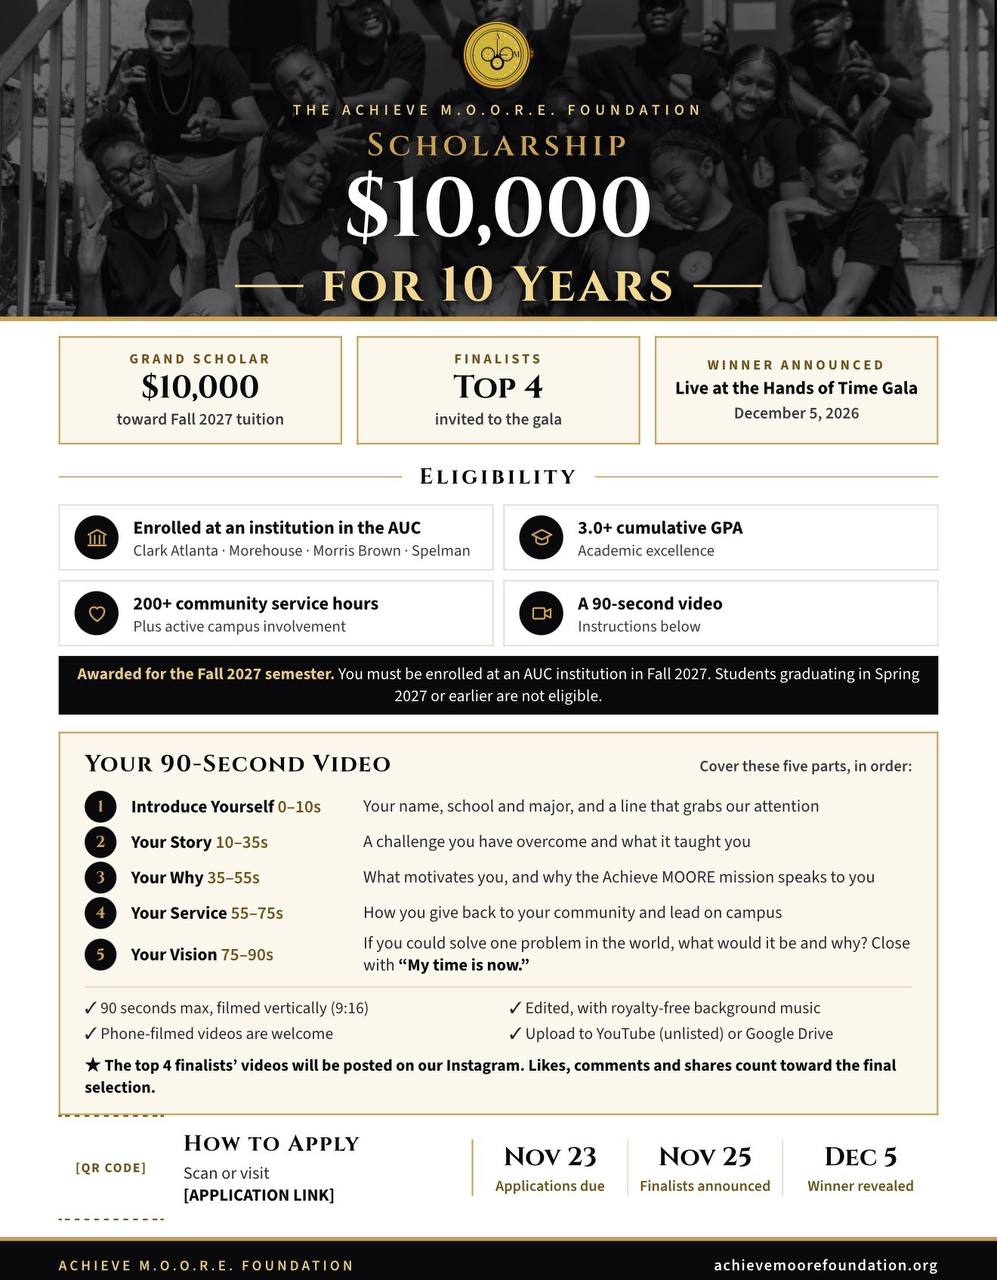
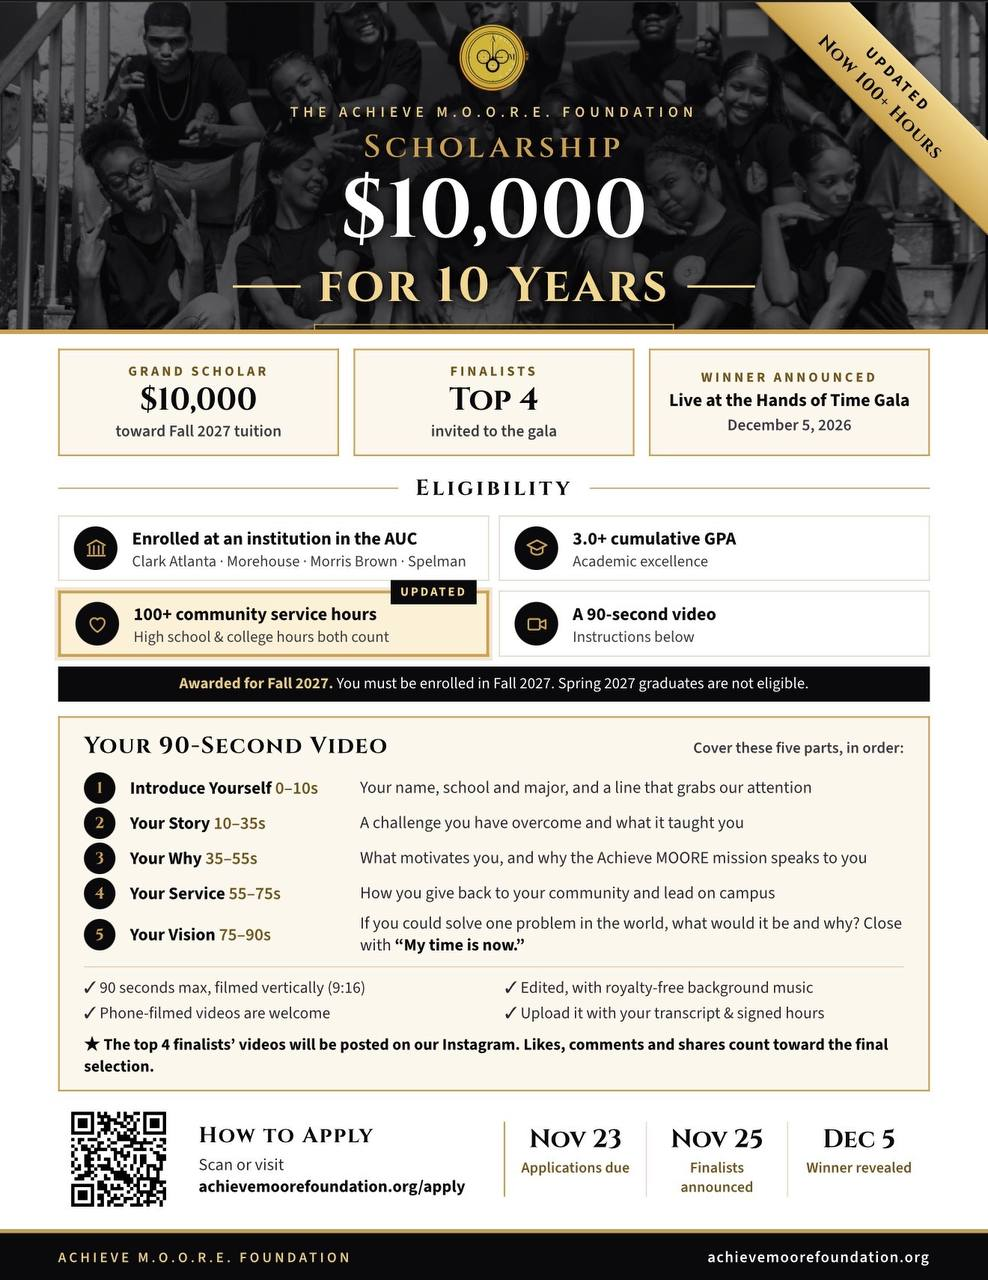
Update scholarship dates and publish partner and newsletters

diff --git a/newsletter.html b/newsletter.html
@@ -468,8 +468,100 @@
     <div class="gold-divider" style="margin-bottom: 18px;"></div>
     <h2>M.O.O.R.E. Updates</h2>
     <p>Flip through the latest edition below like a booklet. Underlined links in the newsletter are clickable &mdash; tap them to visit the website, purchase gala tickets, donate, and more.</p>
-    <span class="issue-badge">Issue #6 &bull; September 2026</span>
+    <span class="issue-badge">Issue #8 &bull; November 2026</span>
   </div>
+
+  <!-- ISSUE #8 BOOKLET -->
+  <div class="booklet" data-booklet aria-label="A.M News Issue 8 booklet">
+    <div class="booklet-stage" tabindex="0">
+      <div class="news-page active">
+        <img src="assets/am-november-1.jpg" alt="A.M News Issue 8, page 1 — F(A.M.)ILY updates from Kareem Moore">
+      </div>
+      <div class="news-page">
+        <img src="assets/am-november-2.jpg" alt="A.M News Issue 8, page 2 — Gala keynote speaker Robert Dawson" loading="lazy">
+      </div>
+      <div class="news-page">
+        <img src="assets/am-november-3.jpg" alt="A.M News Issue 8, page 3 — Adreina Rainey Humanitarian Award" loading="lazy">
+      </div>
+      <div class="news-page">
+        <img src="assets/am-november-4.jpg" alt="A.M News Issue 8, page 4 — Leadership and Excellence Award" loading="lazy">
+      </div>
+      <div class="news-page">
+        <img src="assets/am-november-5.jpg" alt="A.M News Issue 8, page 5 — The Rising Hour Award" loading="lazy">
+      </div>
+      <div class="news-page">
+        <img src="assets/am-november-6.jpg" alt="A.M News Issue 8, page 6 — Reserve your gala seat and donate" loading="lazy">
+        <a class="news-link" href="/gala" aria-label="Visit the Hands of Time Gala page" title="Visit the Hands of Time Gala page" style="left: 12%; top: 54.5%; width: 24%; height: 2%;"></a>
+        <a class="news-link" href="https://www.paypal.com/ncp/payment/9DM9LFFLN476S" target="_blank" rel="noopener" aria-label="Donate to the foundation" title="Donate to the foundation" style="left: 15%; top: 74%; width: 23%; height: 2.5%;"></a>
+        <a class="news-link" href="mailto:achievemoorefoundation@gmail.com" aria-label="Email the foundation" title="Email the foundation" style="left: 14.5%; top: 87%; width: 28%; height: 2.5%;"></a>
+      </div>
+      <div class="news-page">
+        <img src="assets/am-november-7.jpg" alt="A.M News Issue 8, page 7 — In Case You Missed It, links to events and pages" loading="lazy">
+        <a class="news-link" href="https://docs.google.com/forms/d/e/1FAIpQLSf6DUo-dIDM3EpcW2LyW-TEszDbcYLiQFBkntuP0aQCl1yglQ/viewform" target="_blank" rel="noopener" aria-label="Alumni Spotlight Survey" title="Alumni Spotlight Survey" style="left: 34%; top: 17.7%; width: 17%; height: 2%;"></a>
+        <a class="news-link" href="/home" aria-label="Visit Our New Website" title="Visit Our New Website" style="left: 16%; top: 20.2%; width: 18%; height: 2%;"></a>
+        <a class="news-link" href="/gala#sponsorship" aria-label="Become a Sponsor at the Gala" title="Become a Sponsor at the Gala" style="left: 16%; top: 23.2%; width: 23%; height: 2%;"></a>
+        <a class="news-link" href="https://www.paypal.com/ncp/payment/9DM9LFFLN476S" target="_blank" rel="noopener" aria-label="Donate Today" title="Donate Today" style="left: 16%; top: 26.3%; width: 12%; height: 2%;"></a>
+        <a class="news-link" href="https://www.linkedin.com/company/achieve-moore-foundation-inc" target="_blank" rel="noopener" aria-label="Follow Us On LinkedIn" title="Follow Us On LinkedIn" style="left: 16%; top: 29.3%; width: 18%; height: 2%;"></a>
+        <a class="news-link" href="https://docs.google.com/forms/d/e/1FAIpQLSf6DUo-dIDM3EpcW2LyW-TEszDbcYLiQFBkntuP0aQCl1yglQ/viewform" target="_blank" rel="noopener" aria-label="Complete the Global Network Survey" title="Complete the Global Network Survey" style="left: 16%; top: 33.8%; width: 50%; height: 2%;"></a>
+      </div>
+    </div>
+    <div class="booklet-controls">
+      <button class="booklet-btn booklet-prev" aria-label="Previous page">&#8592;</button>
+      <span class="booklet-count">Page 1 of 7</span>
+      <button class="booklet-btn booklet-next" aria-label="Next page">&#8594;</button>
+    </div>
+    <div class="booklet-dots" aria-label="Go to page"></div>
+  </div>
+
+  <!-- PAST EDITIONS -->
+  <div class="past-editions">
+    <div class="news-intro">
+      <p class="section-label">Past Editions</p>
+      <div class="gold-divider" style="margin-bottom: 18px;"></div>
+      <h2>The Archive</h2>
+      <span class="issue-badge">Issue #7 &bull; October 2026</span>
+    </div>
+
+    <!-- ISSUE #7 BOOKLET -->
+    <div class="booklet" data-booklet aria-label="A.M News Issue 7 booklet">
+      <div class="booklet-stage" tabindex="0">
+        <div class="news-page active">
+          <img src="assets/am-october-1.jpg" alt="A.M News Issue 7, page 1 — F(A.M.)ILY updates from Kareem Moore" loading="lazy">
+        </div>
+        <div class="news-page">
+          <img src="assets/am-october-2.jpg" alt="A.M News Issue 7, page 2 — Bring Others With You Legacy Award" loading="lazy">
+        </div>
+        <div class="news-page">
+          <img src="assets/am-october-3.jpg" alt="A.M News Issue 7, page 3 — EY Parker Foundation sponsor highlight" loading="lazy">
+          <a class="news-link" href="https://eyparker.org/" target="_blank" rel="noopener" aria-label="Learn more about EY Parker Foundation" title="Learn more about EY Parker Foundation" style="left: 41%; top: 84.5%; width: 13%; height: 2%;"></a>
+        </div>
+        <div class="news-page">
+          <img src="assets/am-october-4.jpg" alt="A.M News Issue 7, page 4 — Reserve your gala seat and donate" loading="lazy">
+          <a class="news-link" href="/gala" aria-label="Visit the Hands of Time Gala page" title="Visit the Hands of Time Gala page" style="left: 12%; top: 54.5%; width: 24%; height: 2%;"></a>
+          <a class="news-link" href="https://www.paypal.com/ncp/payment/9DM9LFFLN476S" target="_blank" rel="noopener" aria-label="Donate to the foundation" title="Donate to the foundation" style="left: 15%; top: 74%; width: 23%; height: 2.5%;"></a>
+          <a class="news-link" href="mailto:achievemoorefoundation@gmail.com" aria-label="Email the foundation" title="Email the foundation" style="left: 14.5%; top: 87%; width: 28%; height: 2.5%;"></a>
+        </div>
+        <div class="news-page">
+          <img src="assets/am-october-5.jpg" alt="A.M News Issue 7, page 5 — In Case You Missed It, links to events and pages" loading="lazy">
+          <a class="news-link" href="https://docs.google.com/forms/d/e/1FAIpQLSf6DUo-dIDM3EpcW2LyW-TEszDbcYLiQFBkntuP0aQCl1yglQ/viewform" target="_blank" rel="noopener" aria-label="Alumni Spotlight Survey" title="Alumni Spotlight Survey" style="left: 34%; top: 17.7%; width: 17%; height: 2%;"></a>
+          <a class="news-link" href="/home" aria-label="Visit Our New Website" title="Visit Our New Website" style="left: 16%; top: 20.2%; width: 18%; height: 2%;"></a>
+          <a class="news-link" href="/gala#sponsorship" aria-label="Become a Sponsor at the Gala" title="Become a Sponsor at the Gala" style="left: 16%; top: 23.2%; width: 23%; height: 2%;"></a>
+          <a class="news-link" href="https://www.paypal.com/ncp/payment/9DM9LFFLN476S" target="_blank" rel="noopener" aria-label="Donate Today" title="Donate Today" style="left: 16%; top: 26.3%; width: 12%; height: 2%;"></a>
+          <a class="news-link" href="https://www.linkedin.com/company/achieve-moore-foundation-inc" target="_blank" rel="noopener" aria-label="Follow Us On LinkedIn" title="Follow Us On LinkedIn" style="left: 16%; top: 29.3%; width: 18%; height: 2%;"></a>
+          <a class="news-link" href="https://docs.google.com/forms/d/e/1FAIpQLSf6DUo-dIDM3EpcW2LyW-TEszDbcYLiQFBkntuP0aQCl1yglQ/viewform" target="_blank" rel="noopener" aria-label="Complete the Global Network Survey" title="Complete the Global Network Survey" style="left: 16%; top: 33.8%; width: 50%; height: 2%;"></a>
+        </div>
+      </div>
+      <div class="booklet-controls">
+        <button class="booklet-btn booklet-prev" aria-label="Previous page">&#8592;</button>
+        <span class="booklet-count">Page 1 of 5</span>
+        <button class="booklet-btn booklet-next" aria-label="Next page">&#8594;</button>
+      </div>
+      <div class="booklet-dots" aria-label="Go to page"></div>
+    </div>
+
+    <div class="news-intro">
+      <span class="issue-badge">Issue #6 &bull; September 2026</span>
+    </div>
 
   <!-- ISSUE #6 BOOKLET -->
   <div class="booklet" data-booklet aria-label="A.M News Issue 6 booklet">
@@ -535,12 +627,7 @@
     <div class="booklet-dots" aria-label="Go to page"></div>
   </div>
 
-  <!-- PAST EDITIONS -->
-  <div class="past-editions">
     <div class="news-intro">
-      <p class="section-label">Past Editions</p>
-      <div class="gold-divider" style="margin-bottom: 18px;"></div>
-      <h2>The Archive</h2>
       <span class="issue-badge">Issue #5 &bull; August 2026</span>
     </div>
 

diff --git a/apply.html b/apply.html
@@ -4,9 +4,9 @@
 <meta charset="UTF-8">
 <meta name="viewport" content="width=device-width, initial-scale=1.0">
 <title>$10,000 Scholarship Application — Achieve M.O.O.R.E Foundation</title>
-<meta name="description" content="Apply for the Achieve M.O.O.R.E Foundation $10,000 for 10 Years Scholarship. Open to AUC students at Clark Atlanta, Morehouse, Morris Brown and Spelman. Applications due November 23.">
+<meta name="description" content="Apply for the Achieve M.O.O.R.E Foundation $10,000 for 10 Years Scholarship. Open to AUC students at Clark Atlanta, Morehouse, Morris Brown and Spelman. Applications due November 27.">
 <meta property="og:title" content="$10,000 for 10 Years — Scholarship Application">
-<meta property="og:description" content="A $10,000 scholarship for AUC students. 3.0+ GPA, 100+ service hours, and a 90-second video. Applications due November 23.">
+<meta property="og:description" content="A $10,000 scholarship for AUC students. 3.0+ GPA, 100+ service hours, and a 90-second video. Applications due November 27.">
 <meta property="og:image" content="https://achievemoorefoundation.org/assets/og-logo.png">
 <link href="https://fonts.googleapis.com/css2?family=Cormorant+Garamond:wght@300;400;600;700&family=Montserrat:wght@300;400;600;700;900&display=swap" rel="stylesheet">
 <style>
@@ -472,7 +472,7 @@
   <div class="gold-divider"></div>
 </section>
 
-<div class="deadline-strip">Applications close <strong>Sunday, November 23</strong> at 11:59 PM ET &mdash; finalists announced November 25 &mdash; winner revealed live at the gala December 5.</div>
+<div class="deadline-strip">Applications close <strong>Friday, November 27</strong> at 11:59 PM ET &mdash; finalists announced November 30 &mdash; winner revealed live at the gala December 5.</div>
 
 <!-- PRIZES -->
 <section class="section">
@@ -571,8 +571,8 @@
 <!-- KEY DATES -->
 <section class="section" style="padding-top:10px;">
   <div class="dates-row">
-    <div class="date-card"><div class="dc-date">Nov 23</div><div class="dc-what">Applications Due</div></div>
-    <div class="date-card"><div class="dc-date">Nov 25</div><div class="dc-what">Finalists Announced</div></div>
+    <div class="date-card"><div class="dc-date">Nov 27</div><div class="dc-what">Applications Due</div></div>
+    <div class="date-card"><div class="dc-date">Nov 30</div><div class="dc-what">Finalists Announced</div></div>
     <div class="date-card"><div class="dc-date">Dec 5</div><div class="dc-what">Winner Revealed</div></div>
   </div>
 </section>
@@ -726,7 +726,7 @@
       <div class="big-check">&#10003;</div>
       <h3>Application Received</h3>
       <p>Thank you for sharing your story with us. A confirmation is on its way to your email.</p>
-      <p><strong>Top 4 finalists</strong> will be announced on <strong>November 25</strong>, and the Grand Scholar is revealed live at the Hands of Time Gala on <strong>December 5, 2026</strong>.</p>
+      <p><strong>Top 4 finalists</strong> will be announced on <strong>November 30</strong>, and the Grand Scholar is revealed live at the Hands of Time Gala on <strong>December 5, 2026</strong>.</p>
       <p style="margin-top:18px; font-family:'Cormorant Garamond',serif; font-size:21px; color:var(--gold);">Your time is now.</p>
     </div>
   </div>

diff --git a/worker/src/index.js b/worker/src/index.js
@@ -503,7 +503,7 @@ const FILE_KEY_RE = /^(videos|proofs|transcripts)\/[\w.-]{8,80}$/;
 const DOC_PREFIX = { proof: 'proofs', transcript: 'transcripts' };
 
 function pastDeadline(env) {
-  const deadline = Date.parse(env.SCHOLARSHIP_DEADLINE || '2026-11-24T04:59:59Z');
+  const deadline = Date.parse(env.SCHOLARSHIP_DEADLINE || '2026-11-28T04:59:59.999Z');
   return !Number.isNaN(deadline) && Date.now() > deadline;
 }
 
@@ -699,8 +699,8 @@ async function sendApplicationReceivedEmail(env, email, firstName) {
   <h1 style="color:#c8920a;font-weight:600;font-size:26px;margin:0 0 6px;">$10,000 for 10 Years</h1>
   <p style="font-size:11px;letter-spacing:3px;text-transform:uppercase;color:#999;margin:0 0 24px;">The Achieve M.O.O.R.E Foundation Scholarship</p>
   <p style="font-size:15px;line-height:1.7;">${firstName ? `Dear ${escapeHtml(firstName)},` : 'Hello,'}</p>
-  <p style="font-size:15px;line-height:1.7;">We received your scholarship application — thank you for sharing your story with us. Our board reviews every entry, and the <strong>Top 4 finalists</strong> will be announced on <strong>November 25</strong> and invited to the Hands of Time Gala, where the Grand Scholar is revealed live on <strong>December 5, 2026</strong>.</p>
-  <p style="font-size:15px;line-height:1.7;">Need to fix something? Just re-submit the form with the same email before November 23 — your newest answers replace the old ones.</p>
+  <p style="font-size:15px;line-height:1.7;">We received your scholarship application — thank you for sharing your story with us. Our board reviews every entry, and the <strong>Top 4 finalists</strong> will be announced on <strong>November 30</strong> and invited to the Hands of Time Gala, where the Grand Scholar is revealed live on <strong>December 5, 2026</strong>.</p>
+  <p style="font-size:15px;line-height:1.7;">Need to fix something? Just re-submit the form with the same email by November 27 — your newest answers replace the old ones.</p>
   <p style="font-size:15px;line-height:1.7;">Your time is now.<br>— The Achieve M.O.O.R.E Foundation</p>
 </div>`
     })

diff --git a/gala.html b/gala.html
@@ -1083,9 +1083,15 @@
         <div class="sponsor-name">EY Parker Foundation</div>
         <p class="sponsor-note">Our first Sundial Partner &mdash; thank you for investing in scholarships, leadership, and career launch for the next generation.</p>
       </div>
+      <div class="sponsor-spot">
+        <div class="sponsor-tier-chip">Sundial Partner</div>
+        <img src="assets/sponsors/corzav.jpg" alt="Corzav's Collision &amp; Glass logo" />
+        <div class="sponsor-name">Corzav&rsquo;s Collision &amp; Glass</div>
+        <p class="sponsor-note">Thank you for supporting scholarships, leadership, and opportunities for the next generation.</p>
+      </div>
       <div class="sponsor-spot sponsor-spot--open">
         <div class="sponsor-name">Your Name Here</div>
-        <p class="sponsor-note">Join the EY Parker Foundation in moving the hands of time. Sponsorships begin at $1,000.</p>
+        <p class="sponsor-note">Join our partners in moving the hands of time. Sponsorships begin at $1,000.</p>
         <a href="#sponsorship" class="ticket-cta">Become a Sponsor</a>
       </div>
     </div>

diff --git a/scholarship-review.html b/scholarship-review.html
@@ -229,7 +229,7 @@
   <div id="dash">
     <div class="page-title">
       <h1>$10,000 <span class="gold">Scholarship Entries</span></h1>
-      <p>Applications due Nov 23 &middot; Finalists announced Nov 25 &middot; Winner revealed Dec 5</p>
+      <p>Applications due Nov 27 &middot; Finalists announced Nov 30 &middot; Winner revealed Dec 5</p>
     </div>
 
     <div class="stats-row" id="statsRow"></div>

diff --git a/worker/README.md b/worker/README.md
@@ -147,7 +147,7 @@ The unofficial transcript is still required.
 
 Re-submitting with the same email updates the application (handy for fixing
 mistakes before the deadline). Submissions are rejected after
-`SCHOLARSHIP_DEADLINE` in `wrangler.toml` (currently Nov 23, 2026, 11:59 PM ET).
+`SCHOLARSHIP_DEADLINE` in `wrangler.toml` (currently Nov 27, 2026, 11:59 PM ET).
 
 1. **Create the R2 bucket for videos** (free tier: 10 GB storage, no
    download/egress fees):
